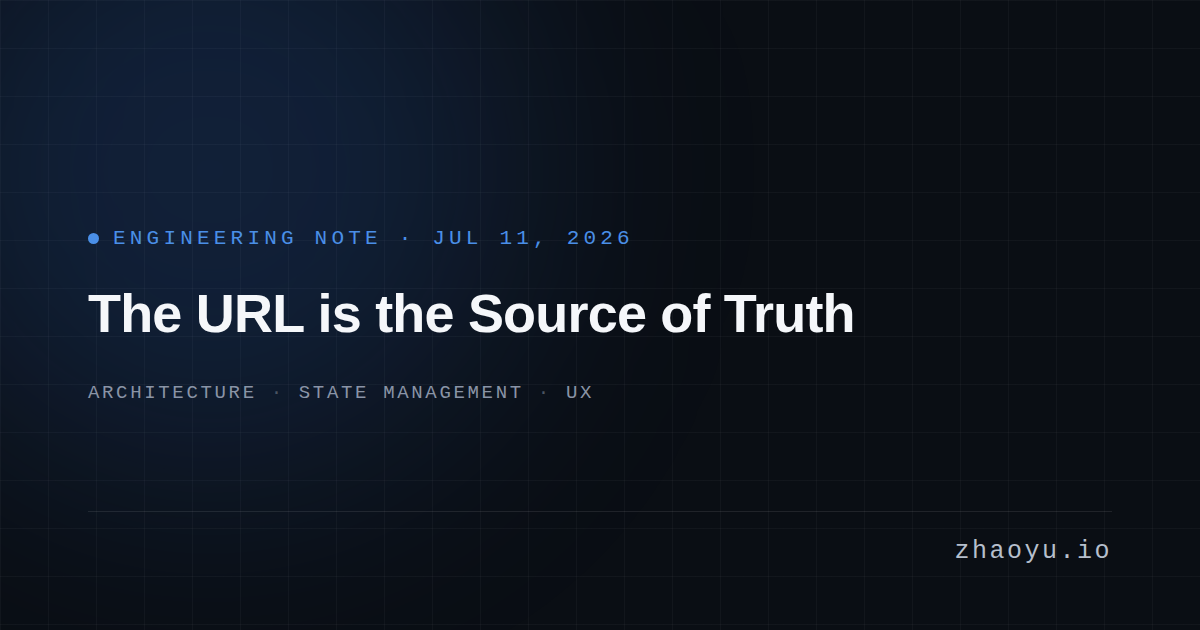
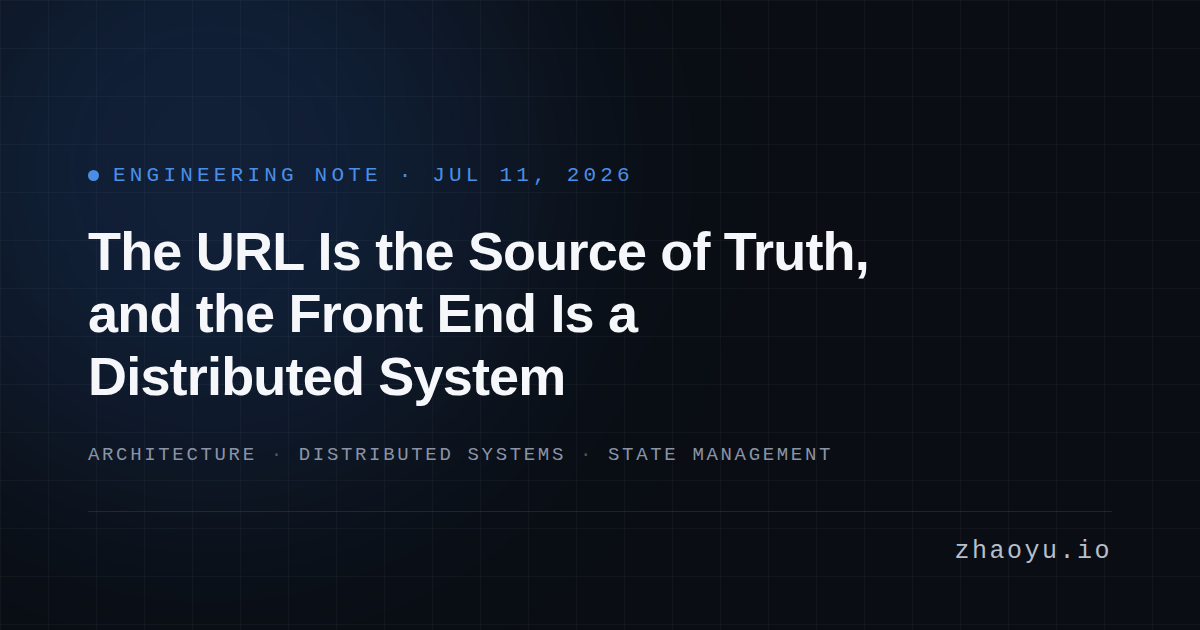
Close the receipts gap: merge three thin notes, upgrade two with public sources
Nine of fourteen notes carried no source a stranger could check, against a hero
that promises receipts. This is the first half of that pass.

Merged the-url-is-the-source-of-truth, idempotency-in-distributed-systems and
sovereign-resilience into one argument: the front end is a distributed system,
and URL-as-truth, retry safety and edge failure domains are replication, retry
semantics and blast radius arriving where nobody uses those words. The URL note
keeps its slug; the other two 301 via a new static/_redirects. Their OG cards
are deliberately retained though the manifest no longer lists them, since a
card already scraped by LinkedIn or X is still referenced by its old absolute
URL. Same reasoning as the legacy flat og-image.png that og.test.ts pins.

Upgraded two notes with receipts a reader can open:
- decoupling-state-from-render now cites web.dev's RAIL budget, which sharpens
  the claim: 16ms per frame, roughly 6ms of it browser overhead, so about 10ms
  for application code.
- building-with-ai now leads with METR's randomized trial, which measured
  experienced developers 19% slower with AI tools while they estimated
  themselves 20% faster, and carries METR's own Feb 2026 caveat that the gap
  has likely narrowed with the size uncertain. The note's easy claim was speed;
  the evidence does not support it, so the claim is now about attempt count.

Two blocking findings from the writer-judge are fixed here: a false structural
[…]

diff --git a/frontend/src/lib/constants/content.ts b/frontend/src/lib/constants/content.ts
@@ -397,59 +397,51 @@ export const notesData: NotesData = {
       title: 'Building with AI: The Compound Advantage',
       date: 'Jul 11, 2026',
       dateISO: '2026-07-11',
+      dateModified: '2026-09-01',
       tags: ['AI Engineering', 'Productivity', 'Meta'],
       sources: [
+        {
+          label:
+            'METR, Measuring the Impact of Early-2025 AI on Experienced Open-Source Developer Productivity (arXiv 2507.09089)',
+          href: 'https://arxiv.org/abs/2507.09089',
+        },
+        {
+          label: 'METR, developer productivity experiment design update, Feb 2026',
+          href: 'https://metr.org/blog/2026-02-24-uplift-update/',
+        },
         {
           label: "This site's source, built as described",
           href: 'https://github.com/zhaolyu/zhaoyu.io',
         },
-        { label: 'First-hand: building and shipping this site with Claude Code' },
       ],
       content: [
-        "I built most of this site using Claude Code. Not as a novelty; as a deliberate workflow. The components you're reading, the type errors that blocked deployment, the engineering notes you're reading: almost all of it happened through a tight loop of prompting, reviewing, and committing. My job was taste and judgment, not keystrokes.",
-        "The thing I didn't expect was the <em>qualitative</em> shift, not just the speed. When implementation cost drops low enough, you stop filtering ideas at the \"is this worth building?\" stage. You just build. The compounding isn't in the individual tasks; it's in the number of experiments you run. An engineer who ships 10 experiments a week learns differently than one who ships 2. AI doesn't change what you can build; it changes how many times you can try.",
+        "I built most of this site through Claude Code as a deliberate workflow: the components, the type errors that blocked deploys, and the notes themselves all went through a loop of prompting, reviewing, and committing. The obvious claim to make about that is speed, and the best available evidence does not support it. <a href='https://arxiv.org/abs/2507.09089' target='_blank' rel='noopener'>METR ran a randomized controlled trial on sixteen experienced open-source developers across 246 real tasks in their own repositories</a> and measured them 19% <em>slower</em> with AI tools than without. The same developers estimated afterward that they had been 20% faster.",
+        "What changed for me was the filter. When a first version costs little enough, an idea stops being killed at the worth-building stage and starts being killed by contact with something running, which is a later filter and a much better one. The compounding is in the attempt count: an engineer who runs ten experiments in a week has ten results to reason from, and those results are what carry into the next decision. The caveat travels with the claim. METR's own <a href='https://metr.org/blog/2026-02-24-uplift-update/' target='_blank' rel='noopener'>February 2026 update</a> reports that developers are likely more sped up now than in early 2025, while selection effects leave the size of that increase uncertain. <strong>Count the things you tried, not the speed you felt.</strong>",
       ],
     },
     {
-      slug: 'sovereign-resilience-why-i-over-index-on-edge-architecture',
-      title: 'Sovereign Resilience: Why I Over-Index on Edge Architecture',
+      slug: 'the-url-is-the-source-of-truth',
+      title: 'The URL Is the Source of Truth, and the Front End Is a Distributed System',
       date: 'Jul 11, 2026',
       dateISO: '2026-07-11',
-      tags: ['Architecture', 'Edge Computing', 'Independence'],
+      dateModified: '2026-09-01',
+      tags: ['Architecture', 'Distributed Systems', 'State Management'],
       sources: [
+        {
+          label: 'Martin Kleppmann, Designing Data-Intensive Applications, Ch.5 (Replication)',
+          href: 'https://dataintensive.net/',
+        },
+        {
+          label: 'IETF httpapi working draft: the Idempotency-Key HTTP header field',
+          href: 'https://datatracker.ietf.org/doc/draft-ietf-httpapi-idempotency-key-header/',
+        },
         {
           label: 'First-hand: operating an edge-rendered architecture through market-moving events',
         },
       ],
       content: [
-        "The CNBC architecture I maintain runs at the edge: request handling, personalization logic, and cache invalidation all execute as close to the user as possible. No single region, no single cloud dependency, no single point of failure. When us-east-1 degrades during a market-moving event, traffic routes around it. The system doesn't panic; it degrades gracefully.",
-        "I've started applying the same pattern to my own work. A skill portfolio concentrated in one employer, one domain, one team is a <strong>single point of failure</strong>. Redundancy at the edge means building capabilities that can execute independently: full-stack range, local-first tooling, systems you own outright. Not as a hedge against any specific outcome, but because optionality compounds quietly until the moment it matters all at once.",
-      ],
-    },
-    {
-      slug: 'idempotency-in-distributed-systems',
-      title: 'Idempotency in Distributed Systems',
-      date: 'Jul 11, 2026',
-      dateISO: '2026-07-11',
-      tags: ['Backend', 'API Design', 'Reliability'],
-      sources: [
-        { label: 'First-hand: API design for systems that spike on scheduled market events' },
-      ],
-      content: [
-        'Working on live news infrastructure taught me that <strong>failures are not exceptional; they are scheduled</strong>. When a Fed rate decision drops at 2pm, every monitoring system, every analytics pipeline, every content update fires simultaneously. Network partitions happen. Acknowledgements get dropped. The question is never "will this request fail?" It\'s "what happens when it does?"',
-        "Idempotency keys are the answer. The design rule I now apply to every API: <strong>the client should always be able to safely retry.</strong> If handing you the same request twice produces different side effects, the design isn't finished. This matters even more in event-driven systems where the cost of double-processing (a duplicate trade entry, a duplicate webhook delivery, a duplicate analytics event) compounds faster than the failure that triggered the retry.",
-      ],
-    },
-    {
-      slug: 'the-url-is-the-source-of-truth',
-      title: 'The URL is the Source of Truth',
-      date: 'Jul 11, 2026',
-      dateISO: '2026-07-11',
-      tags: ['Architecture', 'State Management', 'UX'],
-      sources: [{ label: 'First-hand: URL-driven state in production web applications' }],
-      content: [
-        'In modern SPAs, we often over-engineer state management stores (Redux, Zustand) for data that belongs in the URL. If a user filters a dashboard by "Status: Active" and refreshes the page, that filter should persist. If they send the link to a colleague, the colleague should see the same filtered view.',
-        'If the state is not in the URL, it is ephemeral. My rule of thumb: <strong>If it changes the data payload, it belongs in the query string.</strong> Client-side stores should be reserved for truly transient UI states (like whether a modal is open or a menu is expanded), not for data definition. Ten years on high-traffic news pages gave me the distributed-systems framing for why this keeps being right: URL-as-truth is single-leader replication, one authoritative writer with every view a follower. A constellation of client stores each holding its own copy of the filter is multi-leader replication, and you inherit its signature failure mode: divergence with no conflict-resolution story.',
+        'Filter a dashboard, refresh the page, and the filter is gone. Send the link to a colleague and they see a different view. The usual diagnosis is that the state was never persisted, and the usual fix is a client store, which handles the reload and misses the mechanism. Holding that filter in the URL is <strong>single-leader replication</strong>: one authoritative location owns the value, every view is a follower, and rendering is a read. Holding it in a store, plus the derived copies three components keep, is multi-leader replication. Most of what <em>Designing Data-Intensive Applications</em> says about multi-leader setups, inside its replication chapter, is about handling write conflicts, because that is where the difficulty always lands: concurrent writers, no total order, and no log to replay when the copies disagree.',
+        "The browser sits behind a network nobody controls, so a request that times out has not necessarily failed, and a payment the reader submits twice still has to land once. The IETF has a <a href='https://datatracker.ietf.org/doc/draft-ietf-httpapi-idempotency-key-header/' target='_blank' rel='noopener'>working draft for an <code>Idempotency-Key</code> header</a> because that is a protocol-level problem rather than an application quirk, and the rule it encodes is that a client must always be able to retry safely. Rendering at the edge is a blast-radius decision before it is a performance one: a region that degrades during a market-moving event should be routed around, not queued behind. None of this is new work. It is replication, retry semantics, and failure domains, arriving in a codebase where nobody uses those words. <strong>You cannot reuse a solved problem you do not recognize.</strong>",
       ],
     },
     {
@@ -457,11 +449,20 @@ export const notesData: NotesData = {
       title: 'Decoupling State from Render in LLM Streaming',
       date: 'Jul 11, 2026',
       dateISO: '2026-07-11',
+      dateModified: '2026-09-01',
       tags: ['React Performance', 'HCI', '60fps'],
-      sources: [{ label: 'First-hand: profiling LLM streaming UIs against the 16ms frame budget' }],
+      sources: [
+        {
+          label: 'web.dev, Measure performance with the RAIL model (frame budget)',
+          href: 'https://web.dev/articles/rail',
+        },
+        {
+          label: 'First-hand: profiling LLM streaming UIs against the frame budget',
+        },
+      ],
       content: [
-        'The naive approach to building an AI chat interface is to connect a Server-Sent Events (SSE) stream directly to a React state setter. Every time a new token chunk arrives (often at sub-50ms intervals), you call <code>setState(prev => prev + chunk)</code>.',
-        "<strong>This is a performance trap.</strong> Triggering a reconciliation cycle on every single token blows through the browser's 16ms frame budget. The solution is to decouple ingestion from rendering. We utilized a mutable <code>useRef</code> buffer to capture high-velocity incoming chunks synchronously, then used a throttled flush mechanism (synced with <code>requestAnimationFrame</code>) to commit to the DOM only when the browser was ready to paint.",
+        "The naive way to build a streaming AI interface is to pipe a Server-Sent Events stream straight into a React state setter: a chunk arrives, <code>setState(prev => prev + chunk)</code> fires, the component re-renders. At sub-50ms token intervals that is twenty or more reconciliation passes a second, each one walking the tree to diff a string that grew by a few characters. The frame budget makes the arithmetic unforgiving. Sixty frames per second leaves 16ms per frame, and <a href='https://web.dev/articles/rail' target='_blank' rel='noopener'>the browser claims roughly 6ms of that for its own rendering work</a>, so application code has about 10ms to do everything else. A pass that overruns the budget does not render late. The frame is dropped.",
+        'The fix is to stop treating arrival and display as the same event. I buffer incoming chunks in a mutable <code>useRef</code>, which accepts writes synchronously without scheduling anything, then flush to state on a <code>requestAnimationFrame</code> tick, so the DOM is written at most once per frame and only when the browser is about to paint. Throughput and render frequency come apart: the stream arrives as fast as the model emits, and the interface still paints on a steady cadence. This separation is older than React and older than LLMs, since a game loop makes the same split between simulation and draw. <strong>When the producer is faster than the consumer, the answer is a buffer and a clock, not a faster consumer.</strong>',
       ],
     },
   ],
